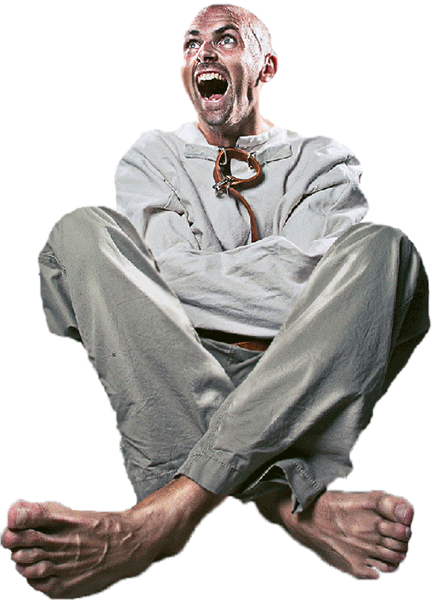
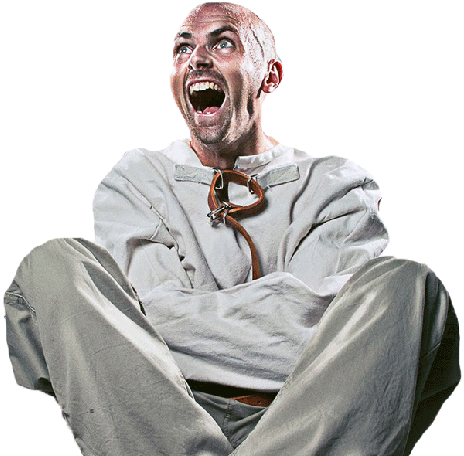
bg conttos

diff --git a/dafamilia/static/main.css b/dafamilia/static/main.css
@@ -191,7 +191,7 @@ body{
 /* CONTATOS */
 
  .bg_contato {
-    background-image: url("../static/fotos_perfil/louco2.png");
+    background-image: url("../static/fotos_perfil/louco.png");
     height: 100vh;
     background-position: bottom right;
     background-repeat: no-repeat;
@@ -200,8 +200,7 @@ body{
 
 }
 @media (max-width: 760px) {
-        .intro {
-          opacity: 0.3;
-          z-index: 0;
+        body.bg_contato{
+            background-image: url("../static/fotos_perfil/louco2.png");
         }
       }
